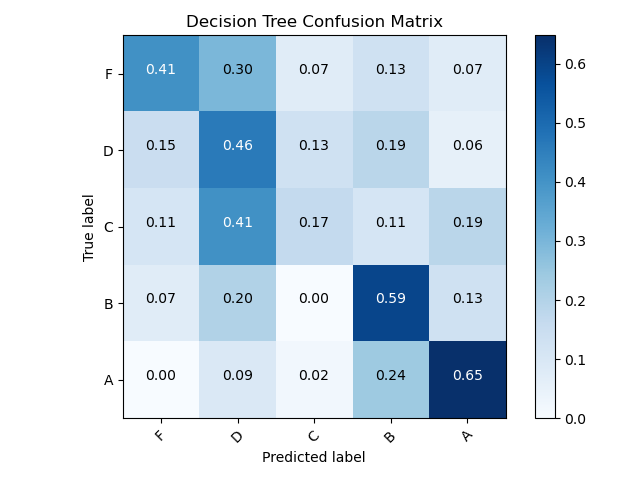
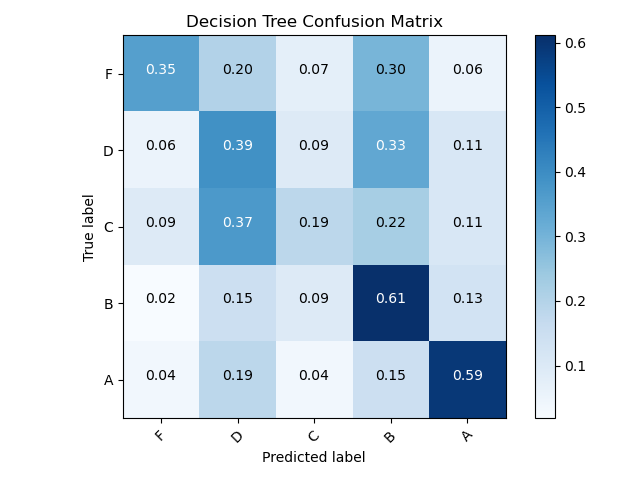
Update DT

diff --git a/decisionTree.py b/decisionTree.py
@@ -55,23 +55,23 @@ X, y = oversample.fit_resample(X, y)
 
 
 #list of features in order of importance determined by SBS feature selection
-sbs_features = ['sex', 'age', 'address', 'famsize', 'Pstatus', 'Medu', 'Fedu',
-       'traveltime', 'studytime', 'failures', 'schoolsup', 'famsup', 'paid',
-       'activities', 'higher', 'internet', 'romantic', 'famrel', 'freetime',
-       'goout', 'Dalc', 'health', 'Mjob_at_home', 'Mjob_health', 'Mjob_other',
-       'Mjob_services', 'Fjob_at_home', 'Fjob_teacher', 'reason_course',
-       'reason_home', 'reason_other', 'reason_reputation', 'guardian_mother']
+sbs_features = ['age', 'address', 'famsize', 'Medu', 'Fedu', 'traveltime', 'studytime',
+       'failures', 'famsup', 'paid', 'activities', 'nursery', 'higher',
+       'internet', 'romantic', 'famrel', 'freetime', 'goout', 'Dalc', 'Walc',
+       'health', 'absences', 'Mjob_health', 'Mjob_other', 'Mjob_services',
+       'Fjob_at_home', 'Fjob_health', 'Fjob_other', 'Fjob_services',
+       'reason_other', 'guardian_father', 'guardian_mother', 'scores']
 
 
 #list of features in order of importance determined by RF feature selection
-rf_features = ['absences', 'health', 'Medu', 'freetime', 'age', 'goout', 'famrel', 
-               'Fedu', 'Walc', 'studytime', 'nursery', 'failures', 'Mjob_other',                      
-               'famsup', 'paid', 'Fjob_other', 'sex', 'famsize', 'guardian_mother', 
-               'activities', 'traveltime', 'Dalc', 'romantic', 'reason_course', 'internet',
-               'Mjob_services', 'address', 'Pstatus', 'reason_reputation', 'schoolsup',
-               'Fjob_services', 'guardian_father', 'reason_home', 'school', 'Mjob_teacher', 
-               'Mjob_at_home', 'Mjob_health', 'Fjob_teacher', 'reason_other', 'Fjob_at_home', 
-               'higher', 'guardian_other', 'Fjob_health']      
+rf_features = ['failures', 'absences', 'Walc', 'schoolsup', 'Mjob_services', 'health', 'famrel', 
+               'paid', 'famsize', 'Fedu', 'studytime', 'school', 'Dalc',                      
+               'nursery', 'Fjob_services', 'age', 'traveltime', 'guardian_other', 'activities', 
+               'address', 'Fjob_at_home', 'Fjob_teacher', 'Medu', 'Mjob_at_home', 'sex',
+               'guardian_father', 'reason_reputation', 'Pstatus', 'reason_other', 'reason_home',
+               'reason_course', 'famsup', 'Fjob_other', 'Mjob_health', 'Fjob_health', 
+               'higher', 'internet', 'romantic', 'Mjob_teacher', 'freetime', 
+               'guardian_other', 'Mjob_other','goout']      
          
 
 
@@ -211,8 +211,8 @@ for name, features in zip(["RF", "SBS"], [rf_features, sbs_features]):
 
 
 #Create final model and confusion matrix
-X_train_new = X_train[X_train.columns.intersection(rf_features[:18])]
-X_test_new = X_test[X_test.columns.intersection(rf_features[:18])]
+X_train_new = X_train[X_train.columns.intersection(rf_features[:23])]
+X_test_new = X_test[X_test.columns.intersection(rf_features[:23])]
 
 X_train_std = stdsc.fit_transform(X_train_new)
 X_test_std = stdsc.transform(X_test_new)
